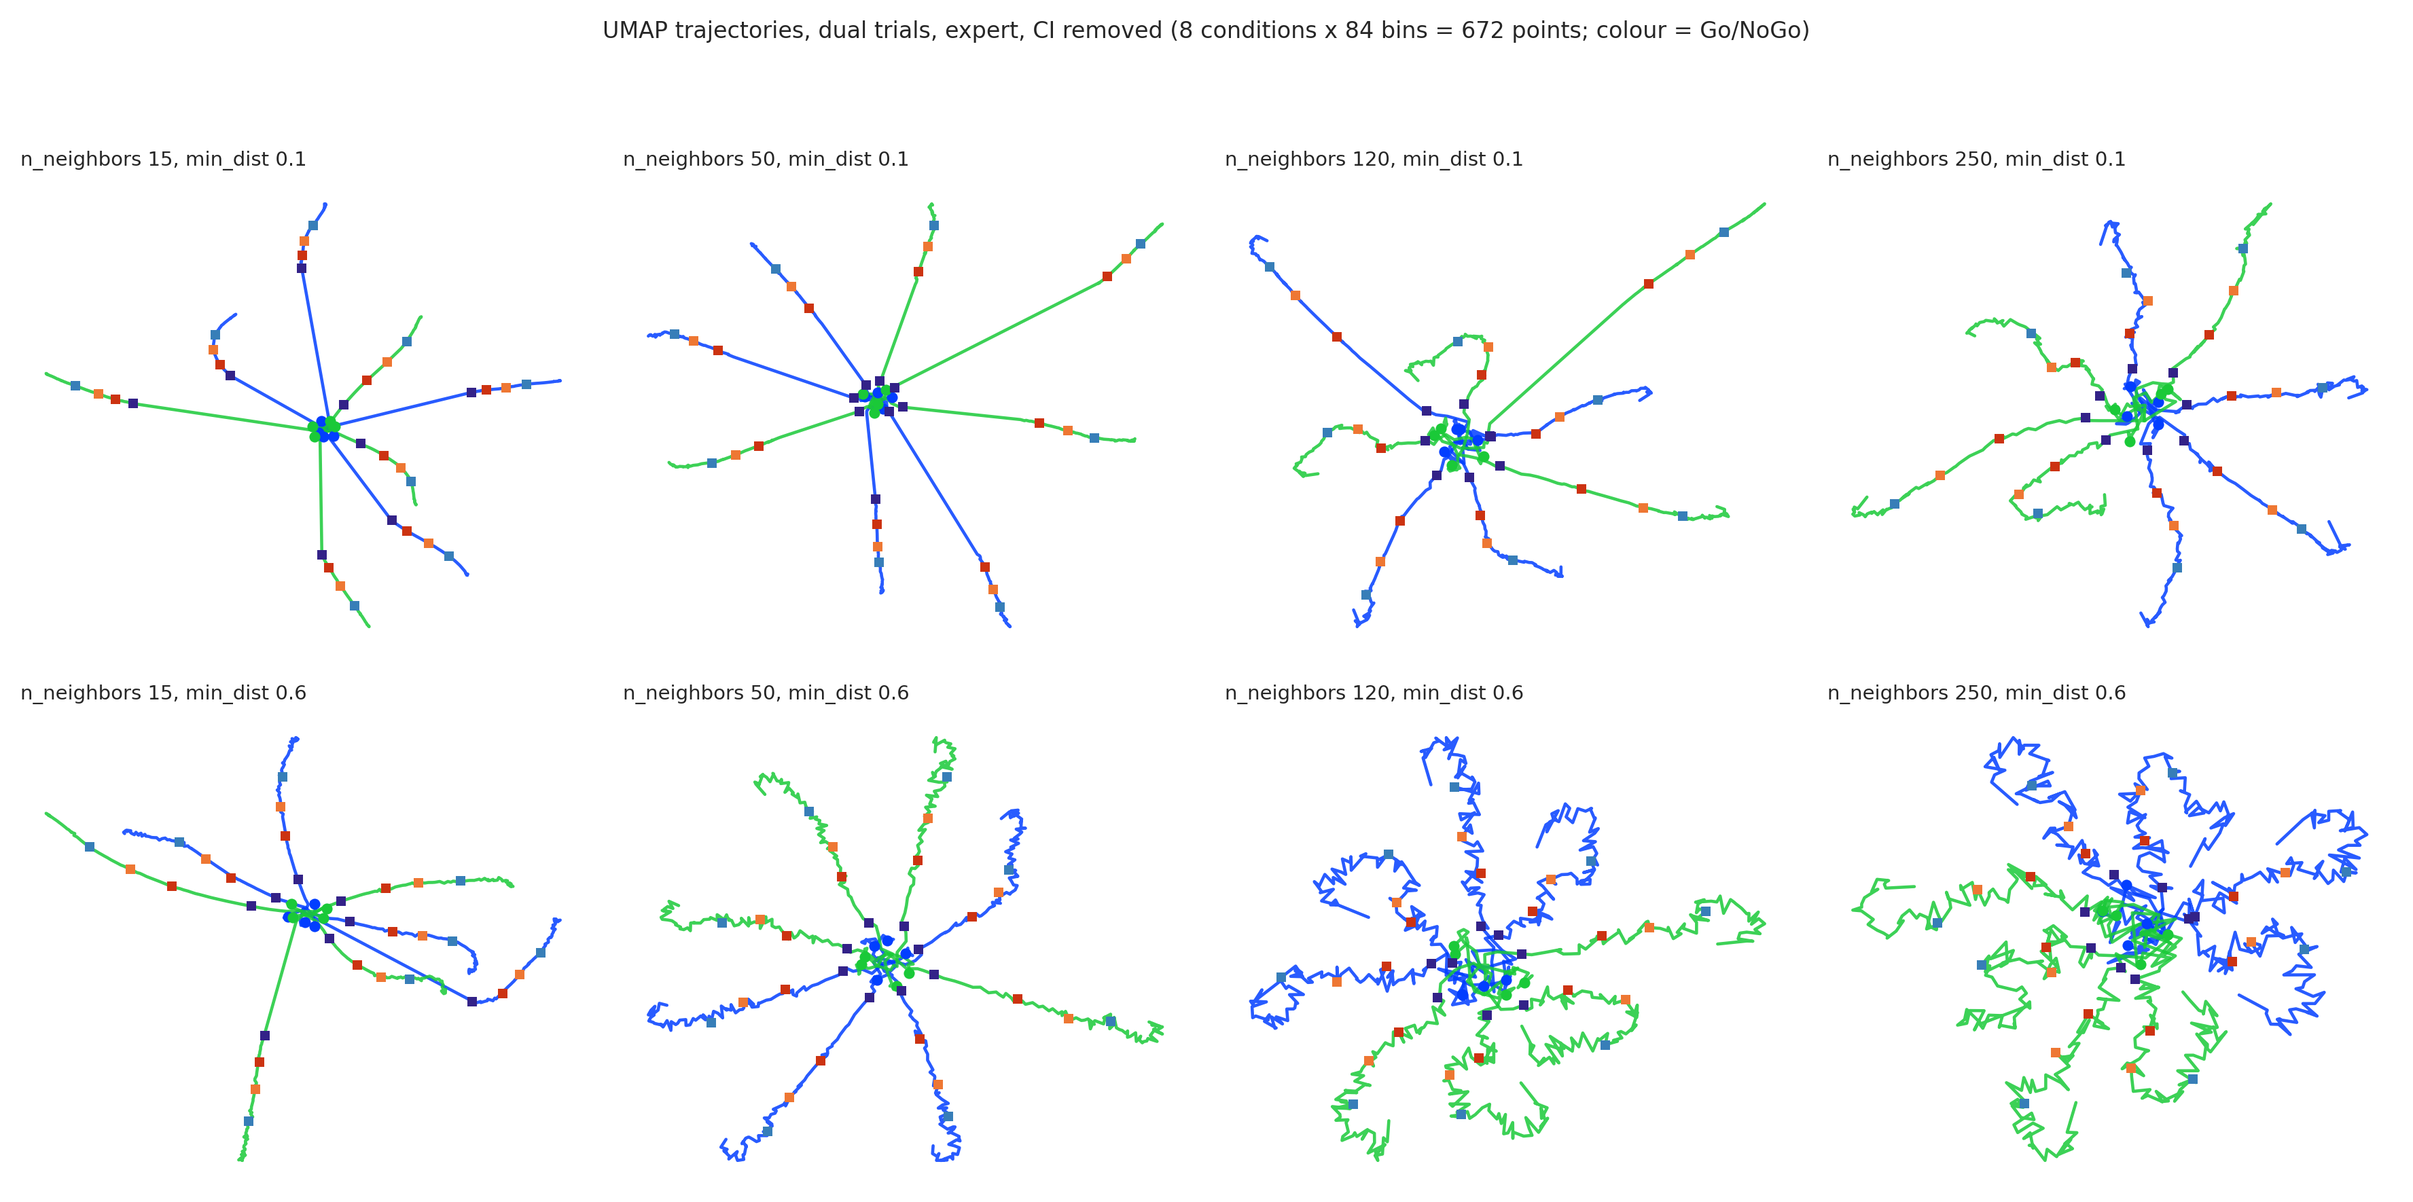
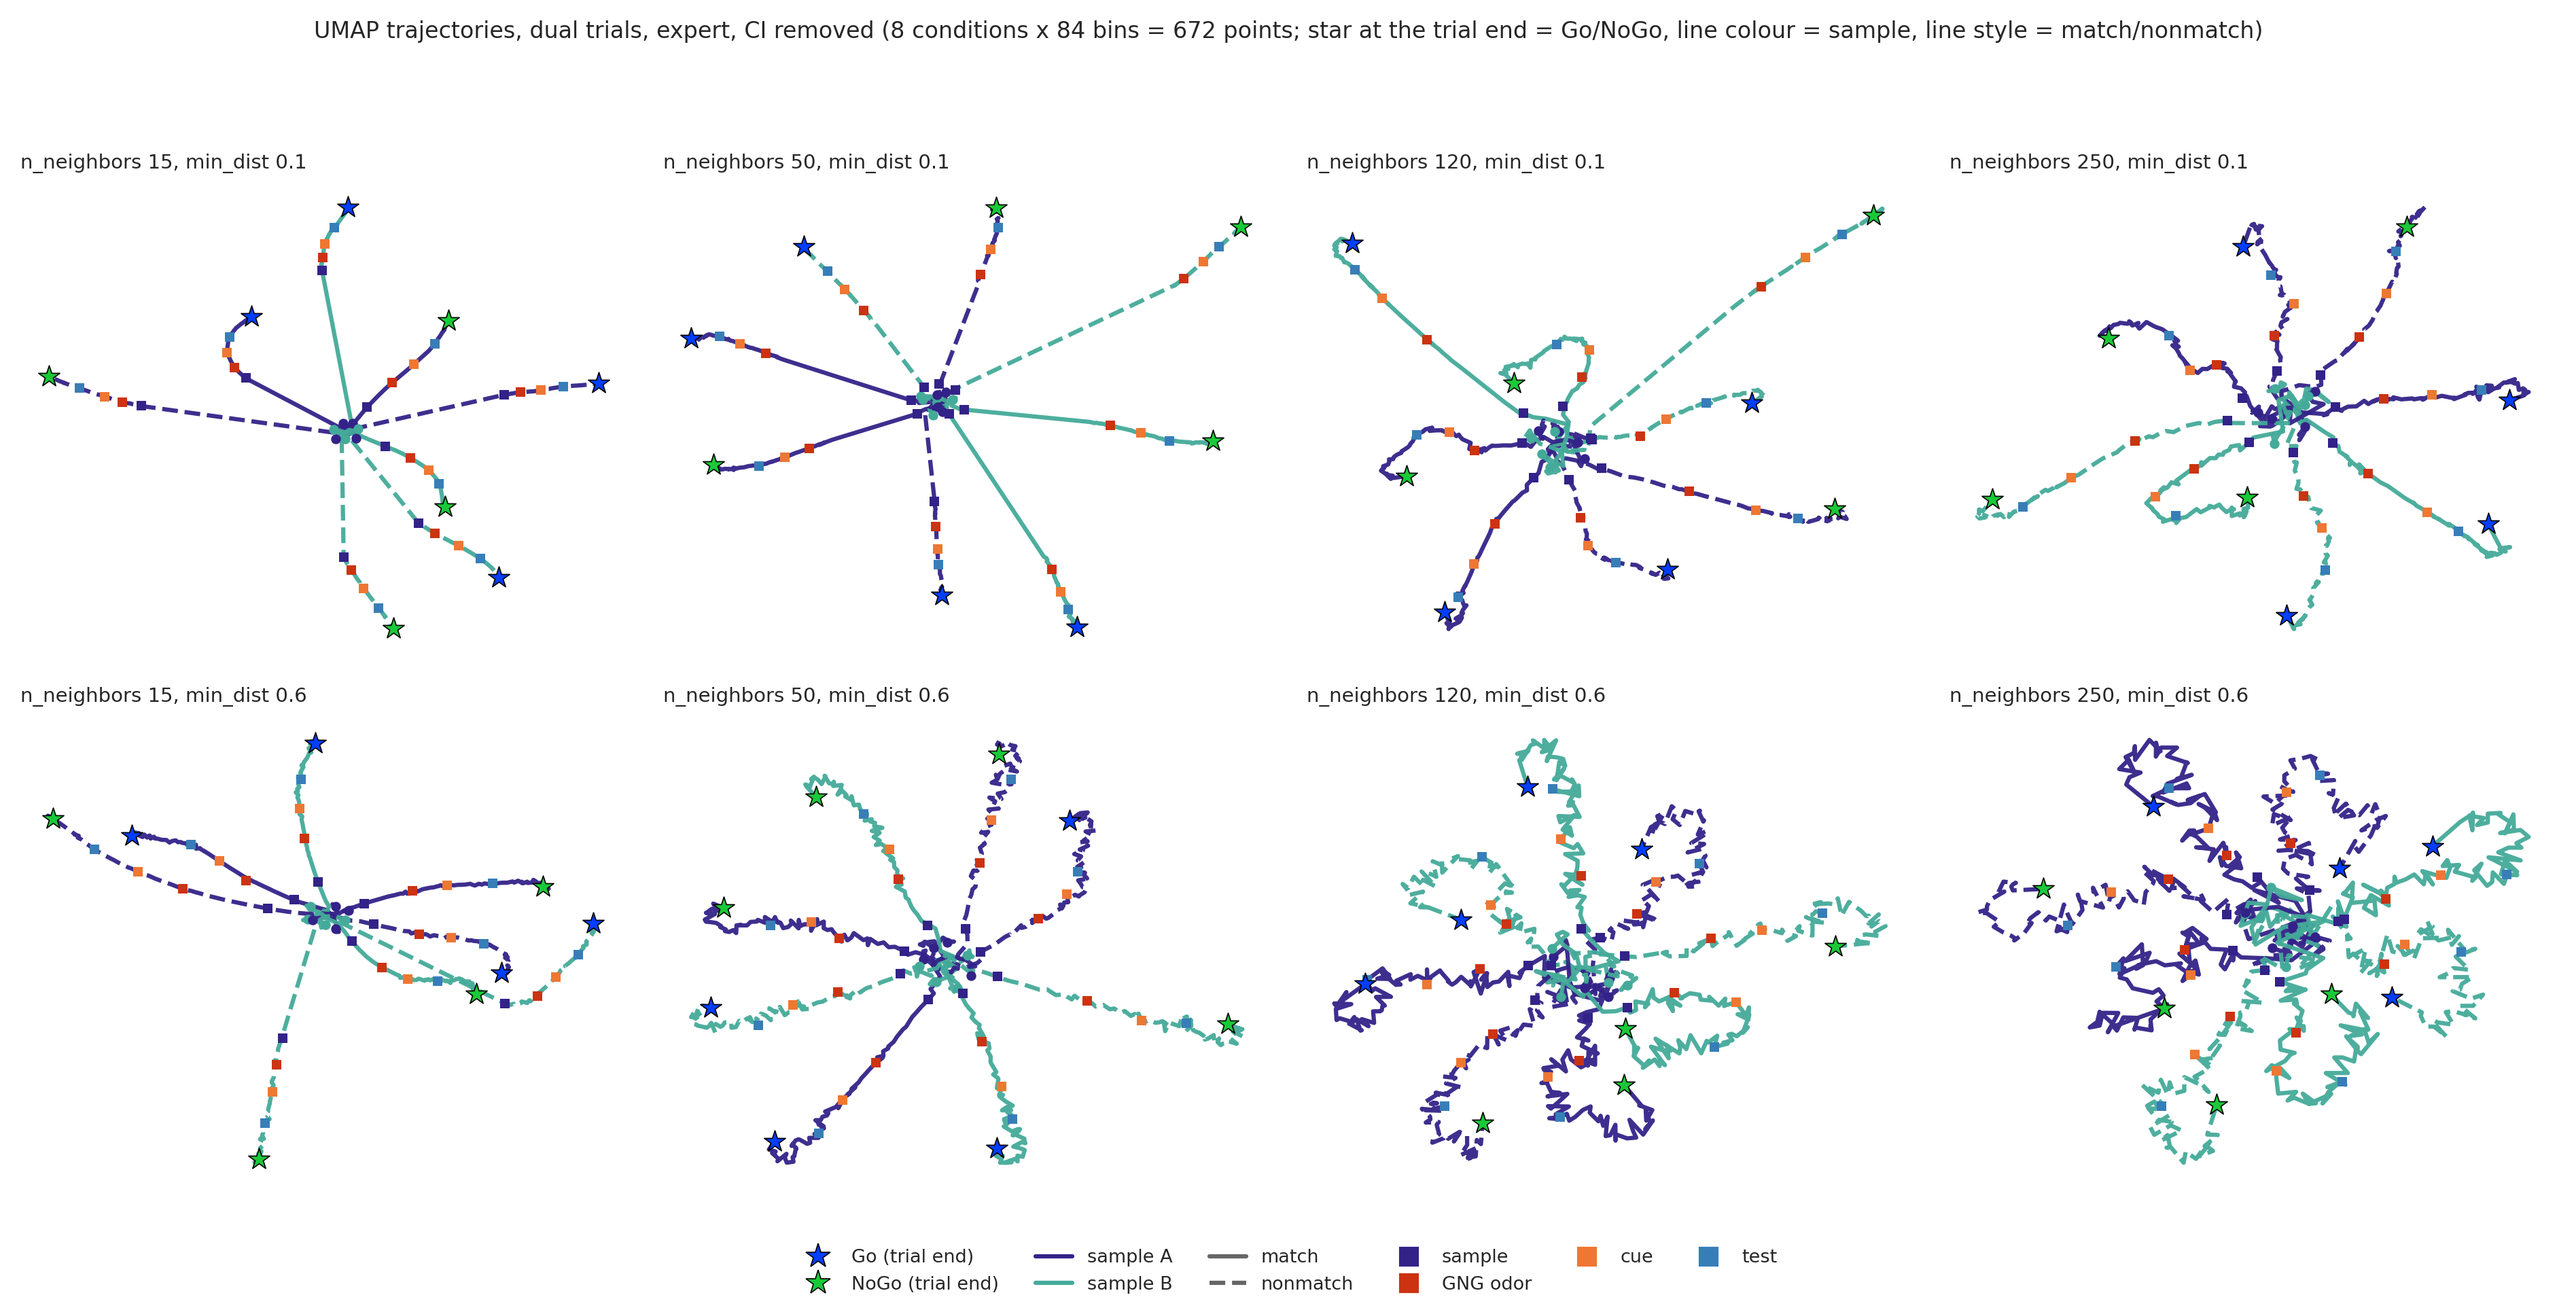
Dual-trial UMAP sweep: all three variables encoded (sample = line colour, match = line style, Go/NoGo = star at the trial end)
Claude-Session: https://claude.ai/code/session_01PzGzWMKHPqqyp4poHedntF

diff --git a/pca/exp_umap_traj_sweep_dual.py b/pca/exp_umap_traj_sweep_dual.py
@@ -1,0 +1,46 @@
+"""exp_umap_traj_sweep_dual.py — the dual-trial UMAP sweep, redrawn so all three variables are visible (Leon 2026-09-18):
+halo = Go/NoGo (blue/green), line colour = sample (A indigo / B teal), line style = match (solid) / nonmatch (dashed).
+Same grid as the DPA sweep: n_neighbors x min_dist, expert, condition-independent component removed.
+"""
+import matplotlib; matplotlib.use('Agg')
+import sys, os, warnings, pickle
+warnings.filterwarnings('ignore'); sys.path.insert(0, '/home/leon/dual/'); os.chdir(os.path.dirname(os.path.abspath(__file__)))
+import numpy as np
+from sklearn.decomposition import PCA
+import umap, seaborn as sns, matplotlib.pyplot as plt, matplotlib.lines as mlines
+sns.set_context('notebook'); sns.set_style('ticks')
+plt.rcParams.update({'figure.dpi': 150, 'savefig.dpi': 300, 'font.family': 'sans-serif', 'font.sans-serif': ['Arial', 'DejaVu Sans'], 'axes.titlesize': 8, 'svg.fonttype': 'none'})
+ALL12 = [(t, s, te) for t in ['DPA', 'DualGo', 'DualNoGo'] for s in (0, 1) for te in (0, 1)]
+DUAL = [c for c in ALL12 if c[0] != 'DPA']
+SAMPC = {0: '#332288', 1: '#44AA99'}; GNGC = {'DualGo': '#023eff', 'DualNoGo': '#1ac938'}
+EVENTS = [(12, 'sample', '#332288'), (27, 'GNG odor', '#cc3311'), (39, 'cue', '#ee7733'), (54, 'test', '#377eb8')]
+NB, SM = 84, 5
+CMBIN = pickle.load(open('figures/pseudo/dimensionality/results.pkl', 'rb'))['CMBIN']
+sel = [ALL12.index(c) for c in DUAL]
+CM = np.asarray(CMBIN['Expert'], float)[sel]; k = np.ones(SM) / SM
+CM = np.apply_along_axis(lambda v: np.convolve(v, k, mode='same'), 2, CM); CM = CM - CM.mean(0, keepdims=True)
+Z = CM.transpose(0, 2, 1).reshape(-1, CM.shape[1]); sd = Z.std(0); sd[sd < 1e-9] = 1.0
+P = PCA(50, random_state=0).fit_transform((Z - Z.mean(0)) / sd)
+NN, MD = [15, 50, 120, 250], [0.1, 0.6]
+fig, axs = plt.subplots(len(MD), len(NN), figsize=(3.2 * len(NN), 3.2 * len(MD)))
+for r, md in enumerate(MD):
+    for c, nn in enumerate(NN):
+        E = umap.UMAP(n_components=2, n_neighbors=min(nn, len(P) - 1), min_dist=md, metric='euclidean', random_state=0).fit_transform(P)
+        ax = axs[r, c]
+        for ci, cd in enumerate(DUAL):
+            tr = E[ci * NB:(ci + 1) * NB]; match = cd[1] == cd[2]
+            ax.plot(tr[:, 0], tr[:, 1], '-' if match else '--', color=SAMPC[cd[1]], lw=1.5, alpha=0.95, zorder=3)        # line = sample, style = match
+            ax.scatter(tr[0, 0], tr[0, 1], s=12, color=SAMPC[cd[1]], marker='o', lw=0, zorder=5)                          # trial start
+            ax.scatter(tr[-1, 0], tr[-1, 1], s=62, color=GNGC[cd[0]], marker='*', edgecolors='k', linewidths=0.4, zorder=7)  # tip star = Go/NoGo
+            for b, _, col in EVENTS:
+                ax.scatter(tr[b, 0], tr[b, 1], s=11, color=col, marker='s', lw=0, zorder=6)
+        ax.set_xticks([]); ax.set_yticks([]); [sp.set_visible(False) for sp in ax.spines.values()]
+        ax.set_title(f'n_neighbors {nn}, min_dist {md}', loc='left', fontsize=7)
+        print(f'dual expert nn={nn} md={md}: done', flush=True)
+hs = [mlines.Line2D([0], [0], marker='*', ls='none', ms=9, color=GNGC[g], mec='k', mew=0.4, label='Go (trial end)' if g == 'DualGo' else 'NoGo (trial end)') for g in GNGC] + \
+     [mlines.Line2D([0], [0], color=SAMPC[s], label=f'sample {"A" if s == 0 else "B"}') for s in SAMPC] + \
+     [mlines.Line2D([0], [0], color='0.4', ls='-', label='match'), mlines.Line2D([0], [0], color='0.4', ls='--', label='nonmatch')] + \
+     [mlines.Line2D([0], [0], marker='s', ls='none', color=c, label=n) for _, n, c in EVENTS]
+fig.legend(handles=hs, loc='lower center', ncol=6, frameon=False, fontsize=6.5)
+fig.suptitle('UMAP trajectories, dual trials, expert, CI removed (8 conditions x 84 bins = 672 points; star at the trial end = Go/NoGo, line colour = sample, line style = match/nonmatch)', fontsize=8)
+fig.tight_layout(rect=(0, 0.06, 1, 0.95)); fig.savefig('figures/pseudo/dimensionality/png/umap_traj_sweep_dual.png', bbox_inches='tight'); print('saved')
